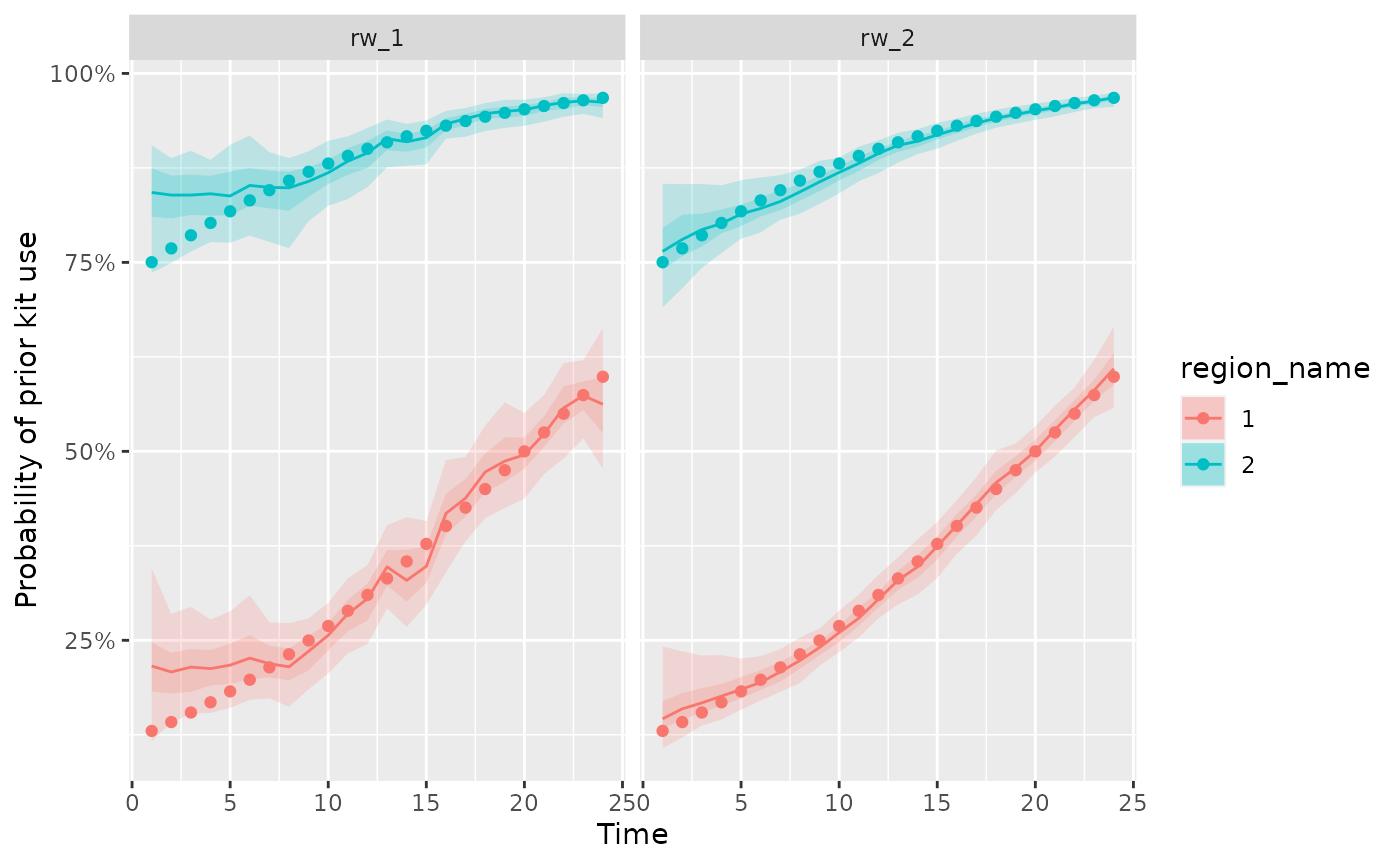
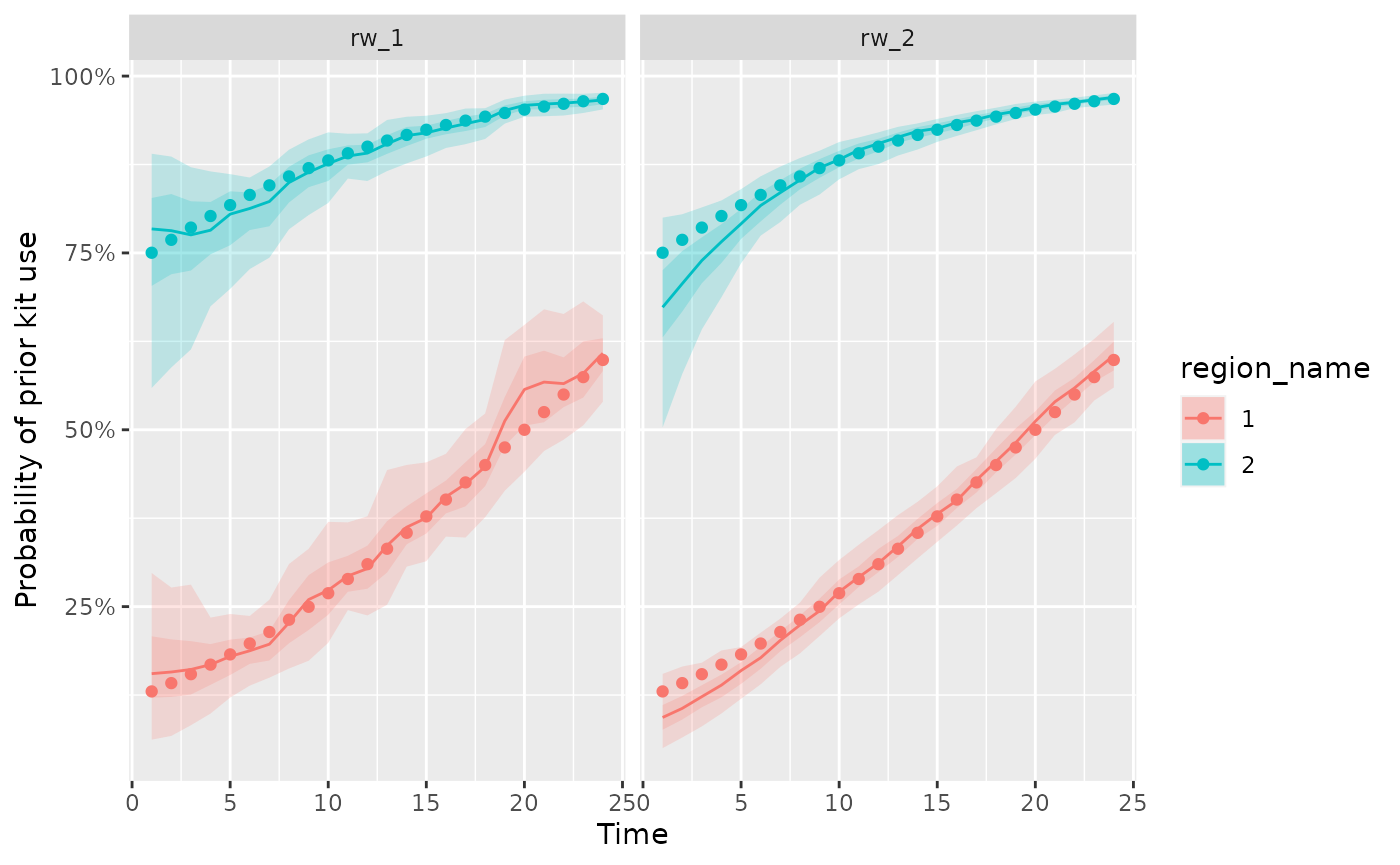
Deploying to gh-pages from @ sempwn/bennu@10d59d8eeaa609b42ab995973f1107c9d8670b78 🚀

diff --git a/articles/Introduction.html b/articles/Introduction.html
@@ -135,7 +135,7 @@
 <span><span class="co">#&gt; <span style="color: #555555;">This warning is displayed once every 8 hours.</span></span></span>
 <span><span class="co">#&gt; <span style="color: #555555;">Call `lifecycle::last_lifecycle_warnings()` to see where this warning was</span></span></span>
 <span><span class="co">#&gt; <span style="color: #555555;">generated.</span></span></span>
-<span><span class="co">#&gt; Warning: There were 34 divergent transitions after warmup. See</span></span>
+<span><span class="co">#&gt; Warning: There were 8 divergent transitions after warmup. See</span></span>
 <span><span class="co">#&gt; https://mc-stan.org/misc/warnings.html#divergent-transitions-after-warmup</span></span>
 <span><span class="co">#&gt; to find out why this is a problem and how to eliminate them.</span></span>
 <span><span class="co">#&gt; Warning: Examine the pairs() plot to diagnose sampling problems</span></span>
@@ -172,18 +172,18 @@
 <span></span>
 <span><span class="fu"><a href="https://mc-stan.org/posterior/reference/draws_summary.html" class="external-link">summarise_draws</a></span><span class="op">(</span><span class="va">fit</span>, <span class="fu"><a href="https://mc-stan.org/posterior/reference/draws_summary.html" class="external-link">default_summary_measures</a></span><span class="op">(</span><span class="op">)</span><span class="op">)</span></span>
 <span><span class="co">#&gt; <span style="color: #949494;"># A tibble: 462 × 7</span></span></span>
-<span><span class="co">#&gt;    variable  mean median     sd    mad    q5    q95</span></span>
-<span><span class="co">#&gt;    <span style="color: #949494; font-style: italic;">&lt;chr&gt;</span>    <span style="color: #949494; font-style: italic;">&lt;num&gt;</span>  <span style="color: #949494; font-style: italic;">&lt;num&gt;</span>  <span style="color: #949494; font-style: italic;">&lt;num&gt;</span>  <span style="color: #949494; font-style: italic;">&lt;num&gt;</span> <span style="color: #949494; font-style: italic;">&lt;num&gt;</span>  <span style="color: #949494; font-style: italic;">&lt;num&gt;</span></span></span>
-<span><span class="co">#&gt; <span style="color: #BCBCBC;"> 1</span> logp[1]  -<span style="color: #BB0000;">1.31</span>  -<span style="color: #BB0000;">1.28</span> 0.367  0.308  -<span style="color: #BB0000;">2.03</span> -<span style="color: #BB0000;">0.668</span></span></span>
-<span><span class="co">#&gt; <span style="color: #BCBCBC;"> 2</span> logp[2]  -<span style="color: #BB0000;">1.35</span>  -<span style="color: #BB0000;">1.37</span> 0.283  0.283  -<span style="color: #BB0000;">1.88</span> -<span style="color: #BB0000;">0.920</span></span></span>
-<span><span class="co">#&gt; <span style="color: #BCBCBC;"> 3</span> logp[3]  -<span style="color: #BB0000;">1.29</span>  -<span style="color: #BB0000;">1.29</span> 0.278  0.283  -<span style="color: #BB0000;">1.71</span> -<span style="color: #BB0000;">0.784</span></span></span>
-<span><span class="co">#&gt; <span style="color: #BCBCBC;"> 4</span> logp[4]  -<span style="color: #BB0000;">1.35</span>  -<span style="color: #BB0000;">1.36</span> 0.193  0.209  -<span style="color: #BB0000;">1.68</span> -<span style="color: #BB0000;">1.07</span> </span></span>
-<span><span class="co">#&gt; <span style="color: #BCBCBC;"> 5</span> logp[5]  -<span style="color: #BB0000;">1.28</span>  -<span style="color: #BB0000;">1.27</span> 0.223  0.215  -<span style="color: #BB0000;">1.67</span> -<span style="color: #BB0000;">0.916</span></span></span>
-<span><span class="co">#&gt; <span style="color: #BCBCBC;"> 6</span> logp[6]  -<span style="color: #BB0000;">1.19</span>  -<span style="color: #BB0000;">1.24</span> 0.261  0.264  -<span style="color: #BB0000;">1.56</span> -<span style="color: #BB0000;">0.747</span></span></span>
-<span><span class="co">#&gt; <span style="color: #BCBCBC;"> 7</span> logp[7]  -<span style="color: #BB0000;">1.25</span>  -<span style="color: #BB0000;">1.25</span> 0.173  0.185  -<span style="color: #BB0000;">1.55</span> -<span style="color: #BB0000;">1.00</span> </span></span>
-<span><span class="co">#&gt; <span style="color: #BCBCBC;"> 8</span> logp[8]  -<span style="color: #BB0000;">1.33</span>  -<span style="color: #BB0000;">1.32</span> 0.170  0.161  -<span style="color: #BB0000;">1.61</span> -<span style="color: #BB0000;">1.09</span> </span></span>
-<span><span class="co">#&gt; <span style="color: #BCBCBC;"> 9</span> logp[9]  -<span style="color: #BB0000;">1.21</span>  -<span style="color: #BB0000;">1.21</span> 0.101  0.085<span style="text-decoration: underline;">8</span> -<span style="color: #BB0000;">1.40</span> -<span style="color: #BB0000;">1.07</span> </span></span>
-<span><span class="co">#&gt; <span style="color: #BCBCBC;">10</span> logp[10] -<span style="color: #BB0000;">1.05</span>  -<span style="color: #BB0000;">1.05</span> 0.081<span style="text-decoration: underline;">8</span> 0.082<span style="text-decoration: underline;">3</span> -<span style="color: #BB0000;">1.18</span> -<span style="color: #BB0000;">0.924</span></span></span>
+<span><span class="co">#&gt;    variable   mean median    sd   mad    q5    q95</span></span>
+<span><span class="co">#&gt;    <span style="color: #949494; font-style: italic;">&lt;chr&gt;</span>     <span style="color: #949494; font-style: italic;">&lt;num&gt;</span>  <span style="color: #949494; font-style: italic;">&lt;num&gt;</span> <span style="color: #949494; font-style: italic;">&lt;num&gt;</span> <span style="color: #949494; font-style: italic;">&lt;num&gt;</span> <span style="color: #949494; font-style: italic;">&lt;num&gt;</span>  <span style="color: #949494; font-style: italic;">&lt;num&gt;</span></span></span>
+<span><span class="co">#&gt; <span style="color: #BCBCBC;"> 1</span> logp[1]  -<span style="color: #BB0000;">1.70</span>  -<span style="color: #BB0000;">1.67</span>  0.576 0.557 -<span style="color: #BB0000;">2.74</span> -<span style="color: #BB0000;">0.866</span></span></span>
+<span><span class="co">#&gt; <span style="color: #BCBCBC;"> 2</span> logp[2]  -<span style="color: #BB0000;">1.67</span>  -<span style="color: #BB0000;">1.65</span>  0.508 0.467 -<span style="color: #BB0000;">2.54</span> -<span style="color: #BB0000;">0.885</span></span></span>
+<span><span class="co">#&gt; <span style="color: #BCBCBC;"> 3</span> logp[3]  -<span style="color: #BB0000;">1.70</span>  -<span style="color: #BB0000;">1.69</span>  0.412 0.378 -<span style="color: #BB0000;">2.38</span> -<span style="color: #BB0000;">1.08</span> </span></span>
+<span><span class="co">#&gt; <span style="color: #BCBCBC;"> 4</span> logp[4]  -<span style="color: #BB0000;">1.63</span>  -<span style="color: #BB0000;">1.62</span>  0.318 0.303 -<span style="color: #BB0000;">2.18</span> -<span style="color: #BB0000;">1.19</span> </span></span>
+<span><span class="co">#&gt; <span style="color: #BCBCBC;"> 5</span> logp[5]  -<span style="color: #BB0000;">1.55</span>  -<span style="color: #BB0000;">1.52</span>  0.261 0.289 -<span style="color: #BB0000;">1.94</span> -<span style="color: #BB0000;">1.16</span> </span></span>
+<span><span class="co">#&gt; <span style="color: #BCBCBC;"> 6</span> logp[6]  -<span style="color: #BB0000;">1.48</span>  -<span style="color: #BB0000;">1.48</span>  0.170 0.167 -<span style="color: #BB0000;">1.77</span> -<span style="color: #BB0000;">1.21</span> </span></span>
+<span><span class="co">#&gt; <span style="color: #BCBCBC;"> 7</span> logp[7]  -<span style="color: #BB0000;">1.48</span>  -<span style="color: #BB0000;">1.49</span>  0.177 0.170 -<span style="color: #BB0000;">1.76</span> -<span style="color: #BB0000;">1.19</span> </span></span>
+<span><span class="co">#&gt; <span style="color: #BCBCBC;"> 8</span> logp[8]  -<span style="color: #BB0000;">1.20</span>  -<span style="color: #BB0000;">1.18</span>  0.262 0.235 -<span style="color: #BB0000;">1.65</span> -<span style="color: #BB0000;">0.735</span></span></span>
+<span><span class="co">#&gt; <span style="color: #BCBCBC;"> 9</span> logp[9]  -<span style="color: #BB0000;">1.08</span>  -<span style="color: #BB0000;">1.06</span>  0.278 0.325 -<span style="color: #BB0000;">1.53</span> -<span style="color: #BB0000;">0.668</span></span></span>
+<span><span class="co">#&gt; <span style="color: #BCBCBC;">10</span> logp[10] -<span style="color: #BB0000;">0.978</span> -<span style="color: #BB0000;">0.987</span> 0.267 0.282 -<span style="color: #BB0000;">1.39</span> -<span style="color: #BB0000;">0.563</span></span></span>
 <span><span class="co">#&gt; <span style="color: #949494;"># ℹ 452 more rows</span></span></span></code></pre></div>
 <p>We can compare two different model fits of the probability of prior
 kit use to simulated data using the <code>plot_kit_use</code>
@@ -246,11 +246,9 @@ probability of naloxone use in time.</p>
 <span><span class="va">rw2_fit</span> <span class="op">&lt;-</span> <span class="fu"><a href="../reference/est_naloxone.html">est_naloxone</a></span><span class="op">(</span><span class="va">d</span>,</span>
 <span>                    rw_type <span class="op">=</span> <span class="fl">2</span>,</span>
 <span>                    iter<span class="op">=</span><span class="fl">100</span><span class="op">)</span></span>
-<span><span class="co">#&gt; Warning: There were 44 divergent transitions after warmup. See</span></span>
+<span><span class="co">#&gt; Warning: There were 12 divergent transitions after warmup. See</span></span>
 <span><span class="co">#&gt; https://mc-stan.org/misc/warnings.html#divergent-transitions-after-warmup</span></span>
 <span><span class="co">#&gt; to find out why this is a problem and how to eliminate them.</span></span>
-<span><span class="co">#&gt; Warning: There were 2 chains where the estimated Bayesian Fraction of Missing Information was low. See</span></span>
-<span><span class="co">#&gt; https://mc-stan.org/misc/warnings.html#bfmi-low</span></span>
 <span><span class="co">#&gt; Warning: Examine the pairs() plot to diagnose sampling problems</span></span>
 <span><span class="co">#&gt; Warning: The largest R-hat is NA, indicating chains have not mixed.</span></span>
 <span><span class="co">#&gt; Running the chains for more iterations may help. See</span></span>
@@ -270,16 +268,16 @@ probability of naloxone use in time.</p>
 <span><span class="co">#&gt; <span style="color: #949494;"># A tibble: 462 × 4</span></span></span>
 <span><span class="co">#&gt;    variable  rhat ess_bulk ess_tail</span></span>
 <span><span class="co">#&gt;    <span style="color: #949494; font-style: italic;">&lt;chr&gt;</span>    <span style="color: #949494; font-style: italic;">&lt;num&gt;</span>    <span style="color: #949494; font-style: italic;">&lt;num&gt;</span>    <span style="color: #949494; font-style: italic;">&lt;num&gt;</span></span></span>
-<span><span class="co">#&gt; <span style="color: #BCBCBC;"> 1</span> logp[1]   1.58     28.6     31.0</span></span>
-<span><span class="co">#&gt; <span style="color: #BCBCBC;"> 2</span> logp[2]   1.52     30.6     31.0</span></span>
-<span><span class="co">#&gt; <span style="color: #BCBCBC;"> 3</span> logp[3]   1.50     22.4     30.7</span></span>
-<span><span class="co">#&gt; <span style="color: #BCBCBC;"> 4</span> logp[4]   1.51     28.7     30.0</span></span>
-<span><span class="co">#&gt; <span style="color: #BCBCBC;"> 5</span> logp[5]   1.31     12.2     70.2</span></span>
-<span><span class="co">#&gt; <span style="color: #BCBCBC;"> 6</span> logp[6]   1.23     15.3    109. </span></span>
-<span><span class="co">#&gt; <span style="color: #BCBCBC;"> 7</span> logp[7]   1.36     43.1    158. </span></span>
-<span><span class="co">#&gt; <span style="color: #BCBCBC;"> 8</span> logp[8]   1.19     36.2    169. </span></span>
-<span><span class="co">#&gt; <span style="color: #BCBCBC;"> 9</span> logp[9]   1.11     35.8    233. </span></span>
-<span><span class="co">#&gt; <span style="color: #BCBCBC;">10</span> logp[10]  1.13     28.4    189. </span></span>
+<span><span class="co">#&gt; <span style="color: #BCBCBC;"> 1</span> logp[1]   1.22     44.5     61.7</span></span>
+<span><span class="co">#&gt; <span style="color: #BCBCBC;"> 2</span> logp[2]   1.18     30.6     63.0</span></span>
+<span><span class="co">#&gt; <span style="color: #BCBCBC;"> 3</span> logp[3]   1.14     55.8     67.7</span></span>
+<span><span class="co">#&gt; <span style="color: #BCBCBC;"> 4</span> logp[4]   1.08     42.7     69.8</span></span>
+<span><span class="co">#&gt; <span style="color: #BCBCBC;"> 5</span> logp[5]   1.09     76.6     76.8</span></span>
+<span><span class="co">#&gt; <span style="color: #BCBCBC;"> 6</span> logp[6]   1.08     82.7     72.2</span></span>
+<span><span class="co">#&gt; <span style="color: #BCBCBC;"> 7</span> logp[7]   1.06     68.4     76.4</span></span>
+<span><span class="co">#&gt; <span style="color: #BCBCBC;"> 8</span> logp[8]   1.02     86.2    141. </span></span>
+<span><span class="co">#&gt; <span style="color: #BCBCBC;"> 9</span> logp[9]   1.04    107.     133. </span></span>
+<span><span class="co">#&gt; <span style="color: #BCBCBC;">10</span> logp[10]  1.06     66.0    194. </span></span>
 <span><span class="co">#&gt; <span style="color: #949494;"># ℹ 452 more rows</span></span></span></code></pre></div>
 <p>We can compare two different model fits of the probability of prior
 kit use to simulated data using the <code>plot_kit_use</code>
@@ -308,10 +306,10 @@ months</p>
 <code class="sourceCode R"><span><span class="va">missing_fit</span> <span class="op">&lt;-</span> <span class="fu"><a href="../reference/est_naloxone.html">est_naloxone</a></span><span class="op">(</span><span class="va">d_missing</span>,</span>
 <span>                    rw_type <span class="op">=</span> <span class="fl">2</span>,</span>
 <span>                    iter<span class="op">=</span><span class="fl">100</span><span class="op">)</span></span>
-<span><span class="co">#&gt; Warning: There were 5 divergent transitions after warmup. See</span></span>
+<span><span class="co">#&gt; Warning: There were 11 divergent transitions after warmup. See</span></span>
 <span><span class="co">#&gt; https://mc-stan.org/misc/warnings.html#divergent-transitions-after-warmup</span></span>
 <span><span class="co">#&gt; to find out why this is a problem and how to eliminate them.</span></span>
-<span><span class="co">#&gt; Warning: There were 4 chains where the estimated Bayesian Fraction of Missing Information was low. See</span></span>
+<span><span class="co">#&gt; Warning: There were 1 chains where the estimated Bayesian Fraction of Missing Information was low. See</span></span>
 <span><span class="co">#&gt; https://mc-stan.org/misc/warnings.html#bfmi-low</span></span>
 <span><span class="co">#&gt; Warning: Examine the pairs() plot to diagnose sampling problems</span></span>
 <span><span class="co">#&gt; Warning: The largest R-hat is NA, indicating chains have not mixed.</span></span>

diff --git a/index.html b/index.html
@@ -114,15 +114,18 @@
 <code class="sourceCode R"><span><span class="kw"><a href="https://rdrr.io/r/base/library.html" class="external-link">library</a></span><span class="op">(</span><span class="va"><a href="https://sempwn.github.io/bennu/">bennu</a></span><span class="op">)</span></span>
 <span><span class="kw"><a href="https://rdrr.io/r/base/library.html" class="external-link">library</a></span><span class="op">(</span><span class="va"><a href="https://mc-stan.org/rstan/" class="external-link">rstan</a></span><span class="op">)</span></span>
 <span><span class="co">#&gt; Loading required package: StanHeaders</span></span>
-<span><span class="co">#&gt; Loading required package: ggplot2</span></span>
-<span><span class="co">#&gt; rstan (Version 2.21.2, GitRev: 2e1f913d3ca3)</span></span>
+<span><span class="co">#&gt; </span></span>
+<span><span class="co">#&gt; rstan version 2.26.22 (Stan version 2.26.1)</span></span>
 <span><span class="co">#&gt; For execution on a local, multicore CPU with excess RAM we recommend calling</span></span>
 <span><span class="co">#&gt; options(mc.cores = parallel::detectCores()).</span></span>
 <span><span class="co">#&gt; To avoid recompilation of unchanged Stan programs, we recommend calling</span></span>
 <span><span class="co">#&gt; rstan_options(auto_write = TRUE)</span></span>
+<span><span class="co">#&gt; For within-chain threading using `reduce_sum()` or `map_rect()` Stan functions,</span></span>
+<span><span class="co">#&gt; change `threads_per_chain` option:</span></span>
+<span><span class="co">#&gt; rstan_options(threads_per_chain = 1)</span></span>
 <span><span class="co">#&gt; Do not specify '-march=native' in 'LOCAL_CPPFLAGS' or a Makevars file</span></span>
 <span><span class="kw"><a href="https://rdrr.io/r/base/library.html" class="external-link">library</a></span><span class="op">(</span><span class="va"><a href="https://mc-stan.org/bayesplot/" class="external-link">bayesplot</a></span><span class="op">)</span></span>
-<span><span class="co">#&gt; This is bayesplot version 1.8.1</span></span>
+<span><span class="co">#&gt; This is bayesplot version 1.10.0</span></span>
 <span><span class="co">#&gt; - Online documentation and vignettes at mc-stan.org/bayesplot</span></span>
 <span><span class="co">#&gt; - bayesplot theme set to bayesplot::theme_default()</span></span>
 <span><span class="co">#&gt;    * Does _not_ affect other ggplot2 plots</span></span>

diff --git a/reference/generate_model_data.html b/reference/generate_model_data.html
@@ -8,7 +8,7 @@ month 12 are c(1,2) * 12^2 = c(144,288).
 The probability of kit use in time is assumed to increase linearly in inverse
 logit space at a constant rate 0.1.
 The probability of reporting for each month and region is iid distributed
-\(\text{logit}^{-1}(p) \sim N(2,5)\) which produces a mean reporting rate
+\(logit^{-1}(p) \sim N(2,5)\) which produces a mean reporting rate
 of approximately 88%"><meta property="og:image" content="https://sempwn.github.io/bennu/logo.png"><!-- mathjax --><script src="https://cdnjs.cloudflare.com/ajax/libs/mathjax/2.7.5/MathJax.js" integrity="sha256-nvJJv9wWKEm88qvoQl9ekL2J+k/RWIsaSScxxlsrv8k=" crossorigin="anonymous"></script><script src="https://cdnjs.cloudflare.com/ajax/libs/mathjax/2.7.5/config/TeX-AMS-MML_HTMLorMML.js" integrity="sha256-84DKXVJXs0/F8OTMzX4UR909+jtl4G7SPypPavF+GfA=" crossorigin="anonymous"></script><!--[if lt IE 9]>
 <script src="https://oss.maxcdn.com/html5shiv/3.7.3/html5shiv.min.js"></script>
 <script src="https://oss.maxcdn.com/respond/1.4.2/respond.min.js"></script>
@@ -78,7 +78,7 @@ month 12 are <code>c(1,2) * 12^2 = c(144,288)</code>.</p>
 <p>The probability of kit use in time is assumed to increase linearly in inverse
 logit space at a constant rate <code>0.1</code>.
 The probability of reporting for each month and region is iid distributed
-\(\text{logit}^{-1}(p) \sim N(2,5)\) which produces a mean reporting rate
+\(logit^{-1}(p) \sim N(2,5)\) which produces a mean reporting rate
 of approximately 88%</p>
     </div>
 
@@ -114,7 +114,10 @@ If <code>NULL</code> distribution frequency matches orders frequency</p></dd>
     <h2>Value</h2>
     
 
-<p>A tibble</p><dl><dt>Orders</dt>
+<p>A tibble</p>
+
+
+<dl><dt>Orders</dt>
 <dd><p>Kit orders per time and region</p></dd>
 
 <dt>regions</dt>

diff --git a/news/index.html b/news/index.html
@@ -59,12 +59,10 @@
 
     <div class="section level2">
 <h2 class="page-header" data-toc-text="development version" id="bennu-development-version">bennu (development version)<a class="anchor" aria-label="anchor" href="#bennu-development-version"></a></h2>
-<ul><li>
-<code>kit_summary_table</code> created to provide a quick way of summarizing model output by different strata</li>
-<li>
-<code>model_random_walk_data</code> created to more closely mimic Bayesian data generating process</li>
-<li>
-<code>generate_model_data</code> deprecated as <code>model_random_walk_data</code> will supplant it as way of generating simulation data to test properties of the model</li>
+<ul><li><p><code>kit_summary_table</code> created to provide a quick way of summarizing model output by different strata</p></li>
+<li><p><code>model_random_walk_data</code> created to more closely mimic Bayesian data generating process</p></li>
+<li><p><code>generate_model_data</code> deprecated as <code>model_random_walk_data</code> will supplant it as way of generating simulation data to test properties of the model</p></li>
+<li><p>Updates to stan model to make it compliant to rstan 2.26 (<a href="https://github.com/sempwn/bennu/issues/22" class="external-link">#22</a>)</p></li>
 </ul></div>
     <div class="section level2">
 <h2 class="page-header" data-toc-text="0.2.1" id="bennu-021">bennu 0.2.1<small>2023-06-23</small><a class="anchor" aria-label="anchor" href="#bennu-021"></a></h2>

diff --git a/reference/kit_summary_table.html b/reference/kit_summary_table.html
@@ -109,29 +109,16 @@ difference between adjacent values.</p></dd>
     <h2>Value</h2>
     
 
-<p><a href="https://dplyr.tidyverse.org/reference/reexports.html" class="external-link">dplyr::tibble</a></p>
+<p>A <a href="https://tibble.tidyverse.org/reference/tibble.html" class="external-link">tibble::tibble</a></p>
 
 
-<dl><dt>Probability of kit use if distributed</dt>
-<dd></dd>
-
-<dt>Estimated as distributed</dt>
-<dd></dd>
-
-<dt>Proportion kits distributed that are reported</dt>
-<dd></dd>
-
-<dt>Estimated kits used</dt>
-<dd></dd>
-
-<dt>Proportion kits used that are reported</dt>
-<dd></dd>
-
-<dt>Proportion kits ordered that are used</dt>
-<dd></dd>
-
-
-</dl></div>
+<ul><li><p>Probability of kit use if distributed</p></li>
+<li><p>Estimated as distributed</p></li>
+<li><p>Proportion kits distributed that are reported</p></li>
+<li><p>Estimated kits used</p></li>
+<li><p>Proportion kits used that are reported</p></li>
+<li><p>Proportion kits ordered that are used</p></li>
+</ul></div>
     <div id="see-also">
     <h2>See also</h2>
     <div class="dont-index"><p>Other plots: 

diff --git a/reference/est_naloxone.html b/reference/est_naloxone.html
@@ -156,7 +156,7 @@ for each chain (including warmup). The default is 2000.</p></dd>
     <h2>Value</h2>
     
 
-<p>An S4 stanfit class object containing the fitted model</p>
+<p>An S4 <a href="https://mc-stan.org/rstan/reference/stanfit-class.html" class="external-link">rstan::stanfit</a> class object containing the fitted model</p>
     </div>
     <div id="see-also">
     <h2>See also</h2>

diff --git a/reference/est_naloxone_vec.html b/reference/est_naloxone_vec.html
@@ -177,7 +177,7 @@ for each chain (including warmup). The default is 2000.</p></dd>
     <h2>Value</h2>
     
 
-<p>An S4 stanfit class object containing the fitted model</p>
+<p>An S4 <a href="https://mc-stan.org/rstan/reference/stanfit-class.html" class="external-link">rstan::stanfit</a> class object containing the fitted model</p>
     </div>
     <div id="see-also">
     <h2>See also</h2>
